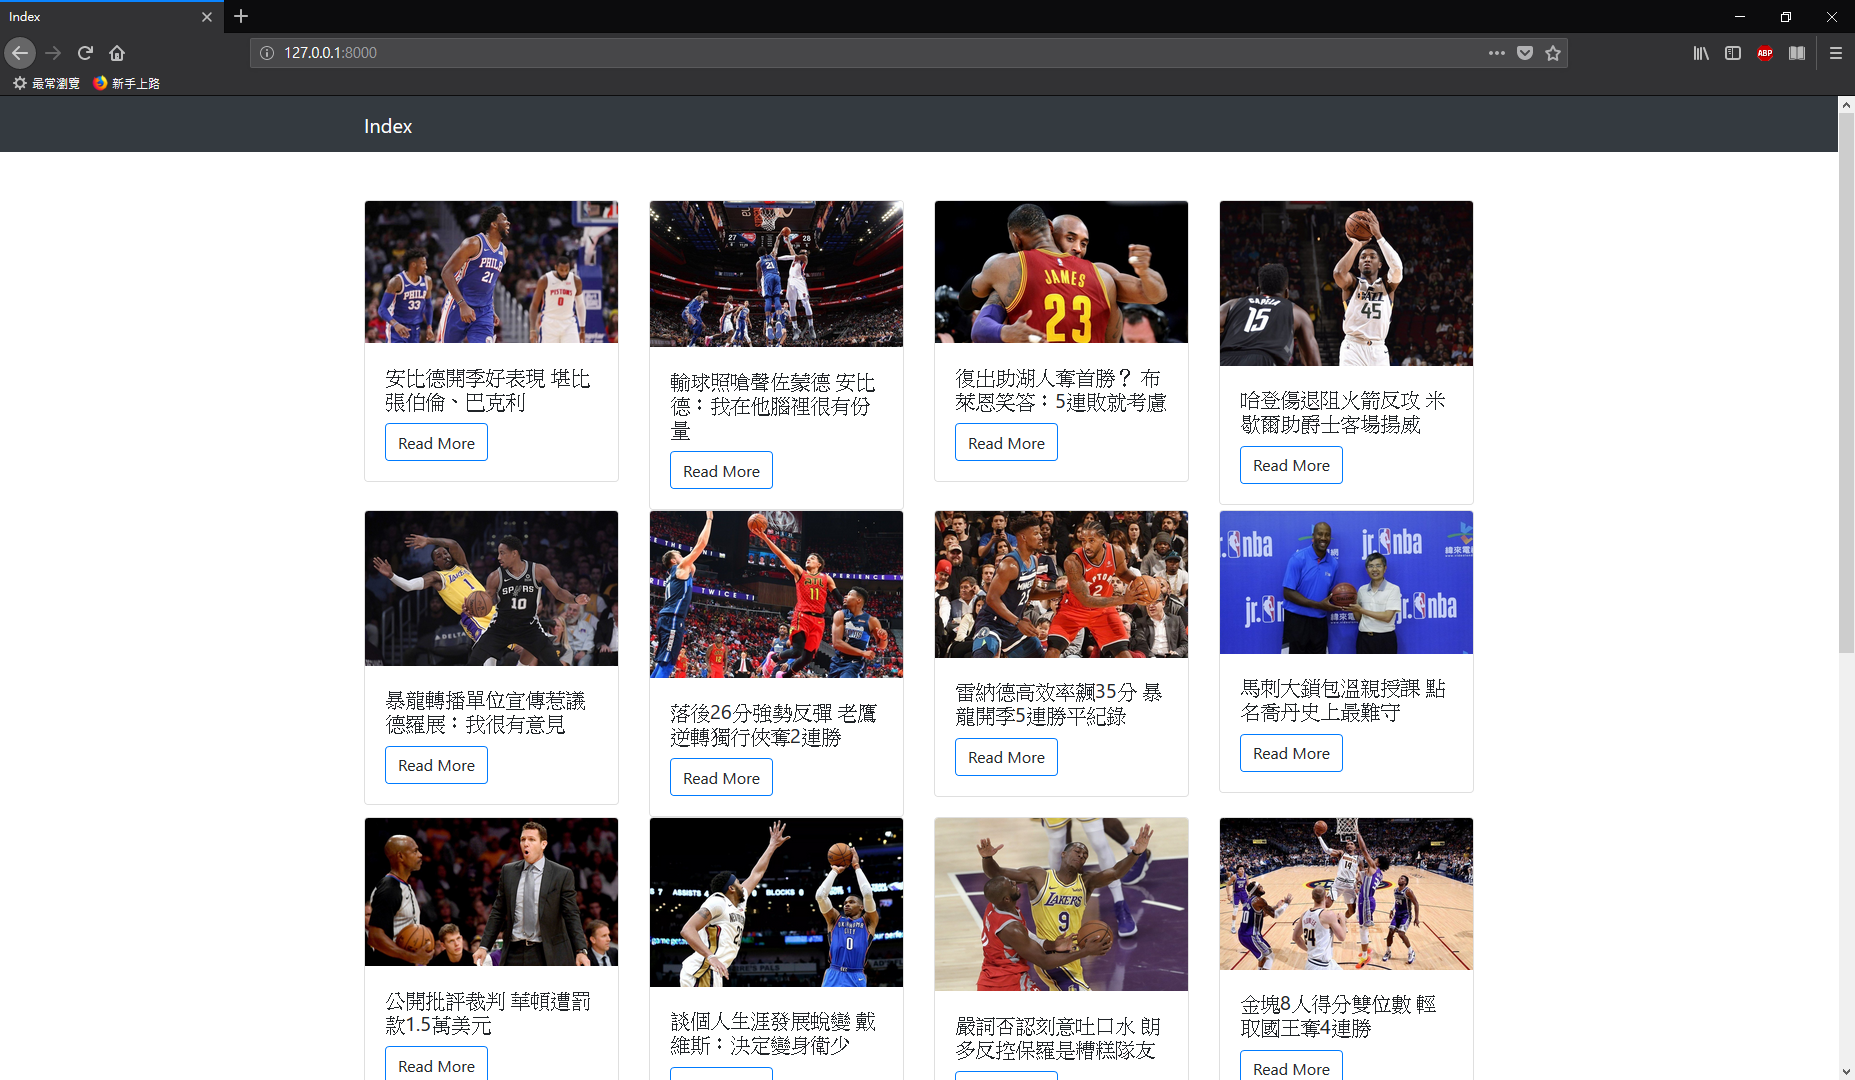
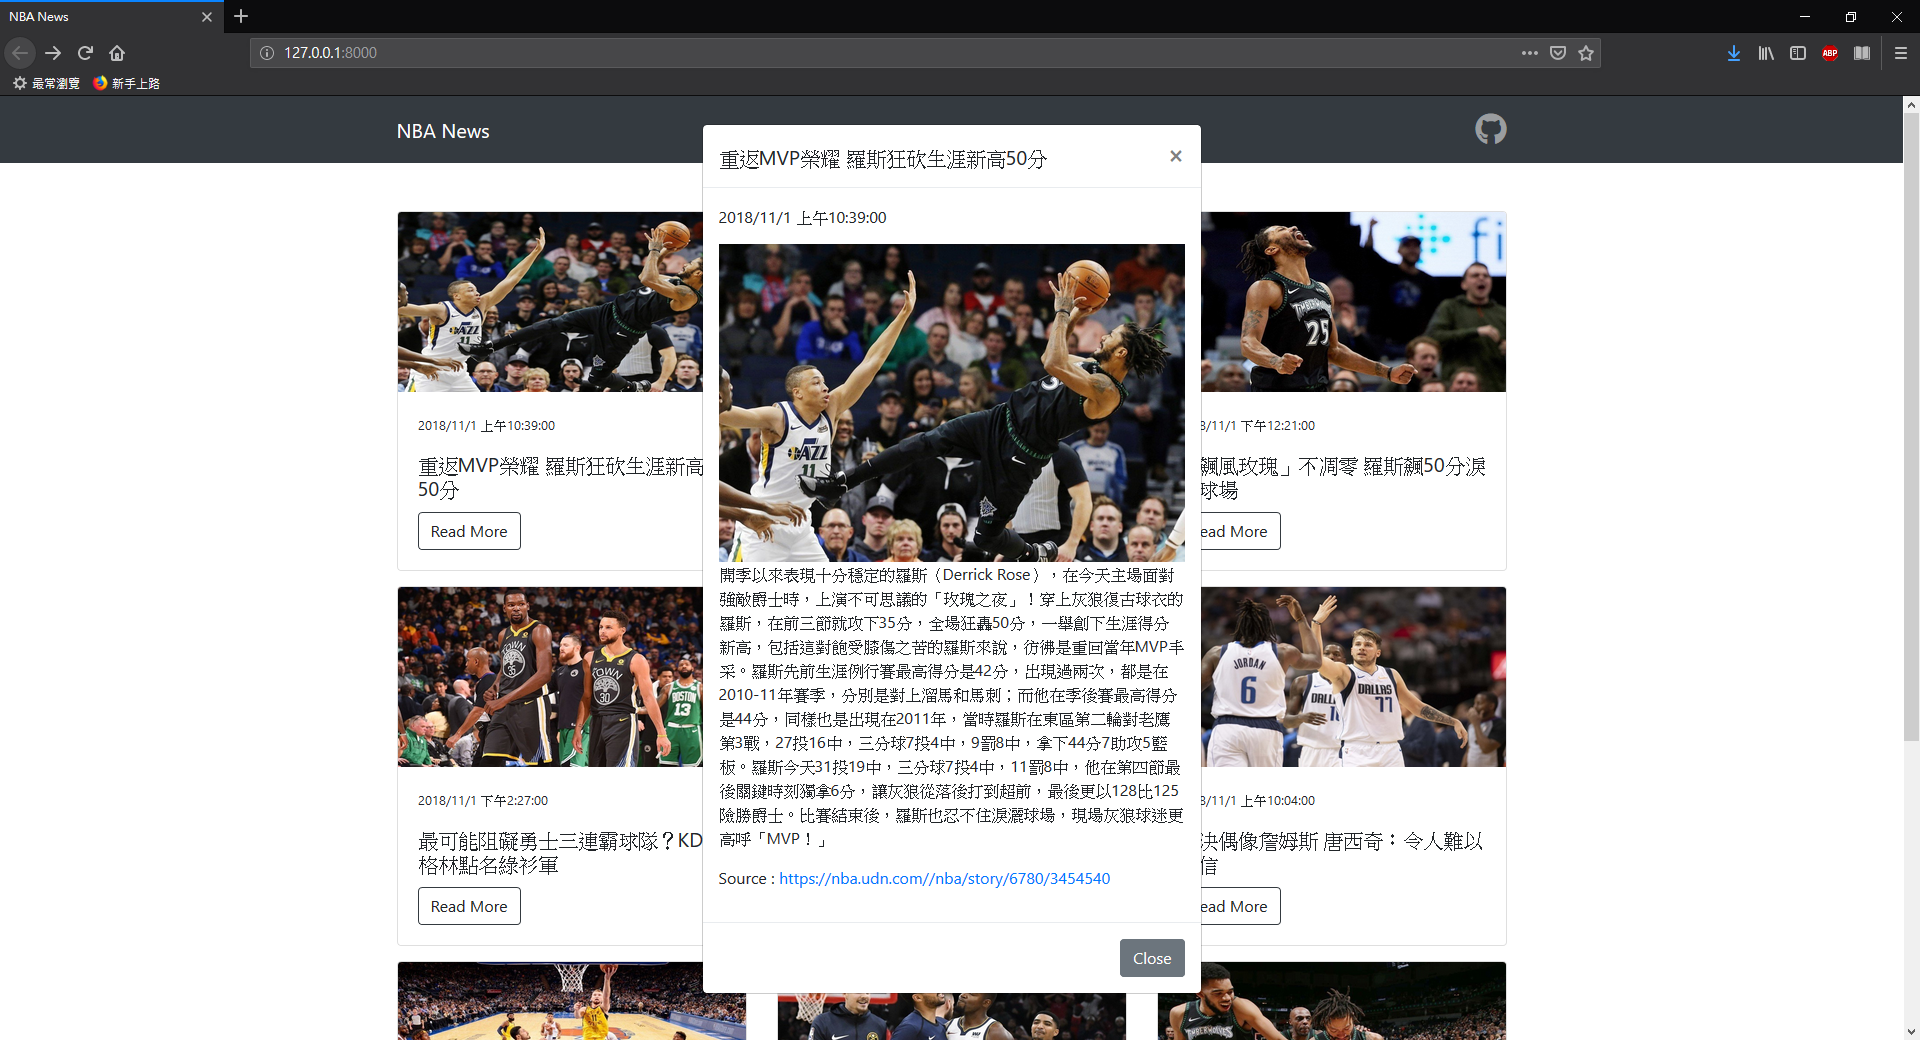
Update README

diff --git a/README.md b/README.md
@@ -4,12 +4,16 @@
 
 ![](images/nba_news.png)
 
+前端嘗試不使用 jQuery，僅用 Bootstrap CSS 跟 Font Awesome 的 icons 來實作，但前端不是我的重點，有時間再來重構（？
+
 ## 使用到的東西
 
 - [Python 3.7](https://www.python.org/)
 - [Django](https://www.djangoproject.com/)
 - [Django REST framework](https://www.django-rest-framework.org/)
 - [Requests-HTML](https://html.python-requests.org/)
+- [Bootstrap](https://getbootstrap.com/)
+- [Font Awesome](https://fontawesome.com/)
 
 ## 爬蟲
 
